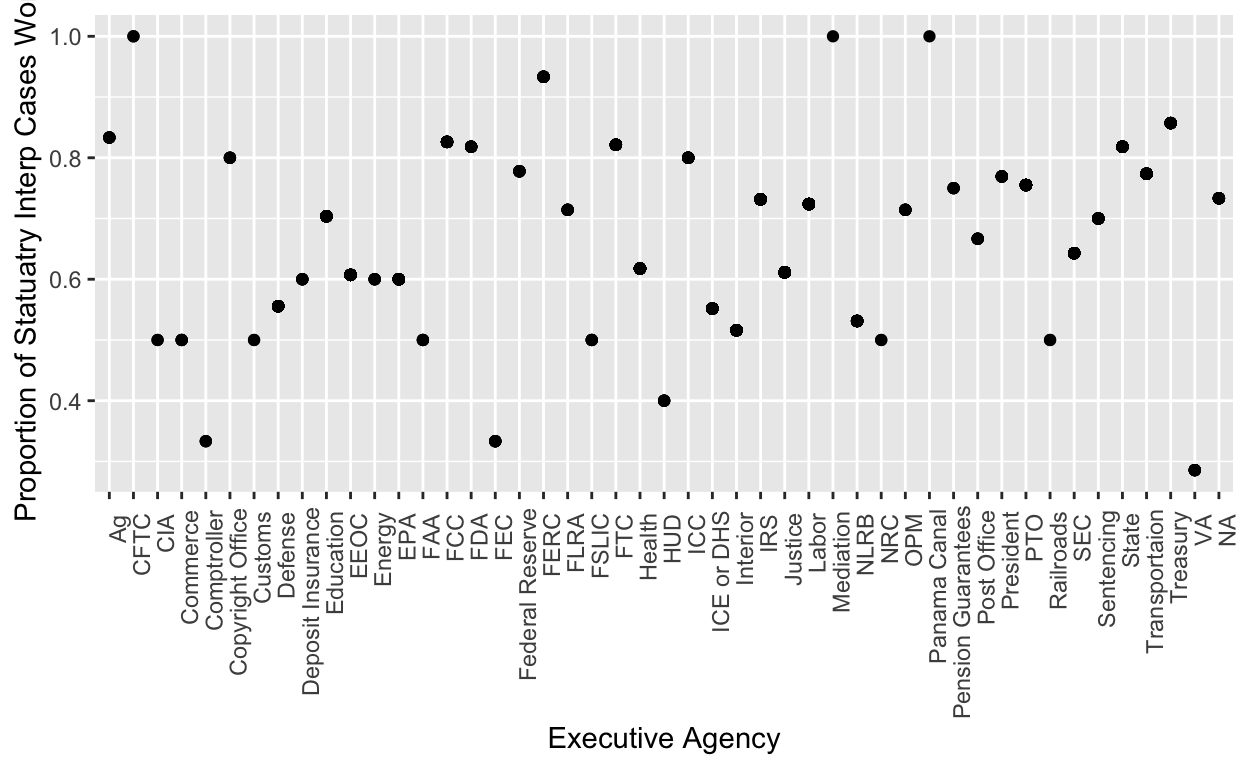
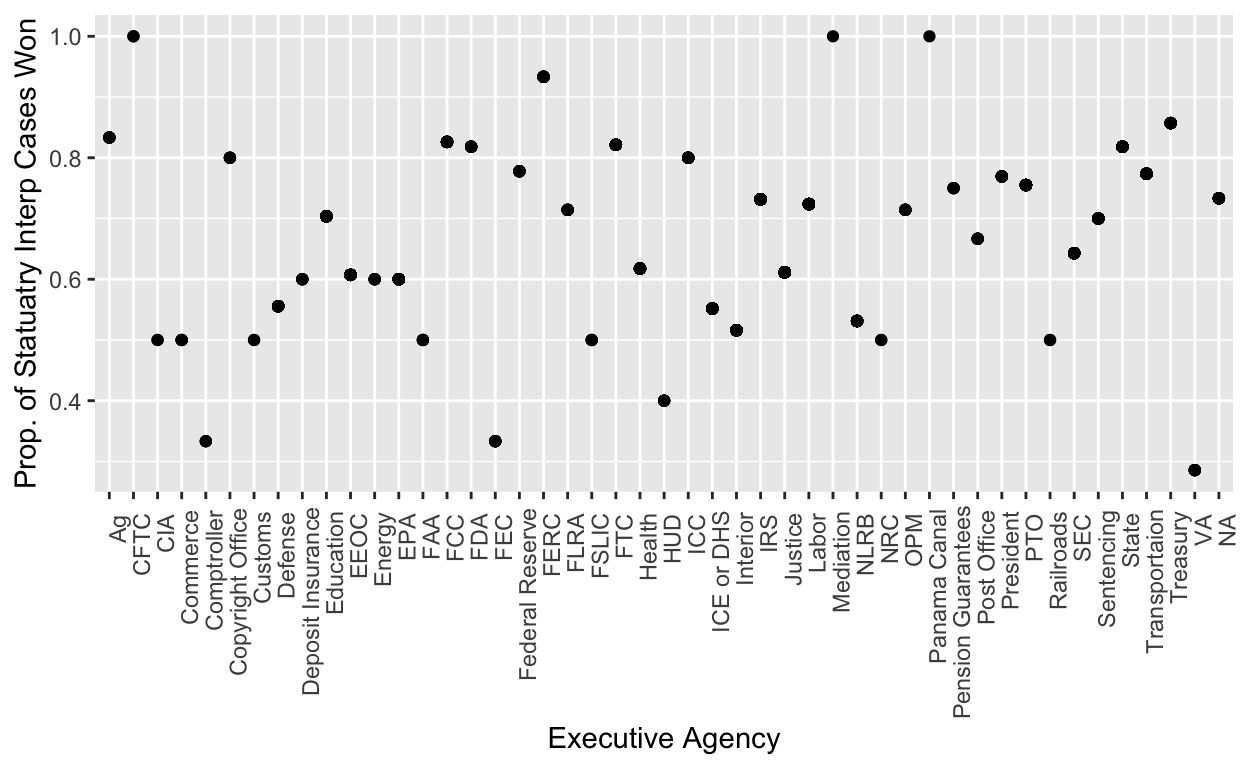
done again

Changed region(s): [[0.0, 0.0, 0.0312, 0.5625], [0.0, 0.5938, 0.0312, 0.6875]]

diff --git a/index.html b/index.html
@@ -1626,7 +1626,7 @@ code span.wa { color: #5e5e5e; font-style: italic; } /* Warning */
 <span>  <span class='fu'><a href='https://ggplot2.tidyverse.org/reference/theme.html'>theme</a></span><span class='op'>(</span>axis.text.x <span class='op'>=</span> <span class='fu'><a href='https://ggplot2.tidyverse.org/reference/element.html'>element_text</a></span><span class='op'>(</span>angle <span class='op'>=</span> <span class='fl'>90</span>, hjust<span class='op'>=</span><span class='fl'>0.95</span><span class='op'>)</span><span class='op'>)</span> <span class='op'>+</span></span>
 <span>  <span class='fu'><a href='https://ggplot2.tidyverse.org/reference/labs.html'>labs</a></span><span class='op'>(</span></span>
 <span>    x <span class='op'>=</span> <span class='st'>"Executive Agency"</span>,</span>
-<span>    y <span class='op'>=</span> <span class='st'>"Proportion of Statuatry Interp Cases Won"</span></span>
+<span>    y <span class='op'>=</span> <span class='st'>"Prop. of Statuatry Interp Cases Won"</span></span>
 <span>  <span class='op'>)</span></span></code></pre>
 </div>
 <p><img src="index_files/figure-html5/unnamed-chunk-5-1.png" width="624" /></p>
